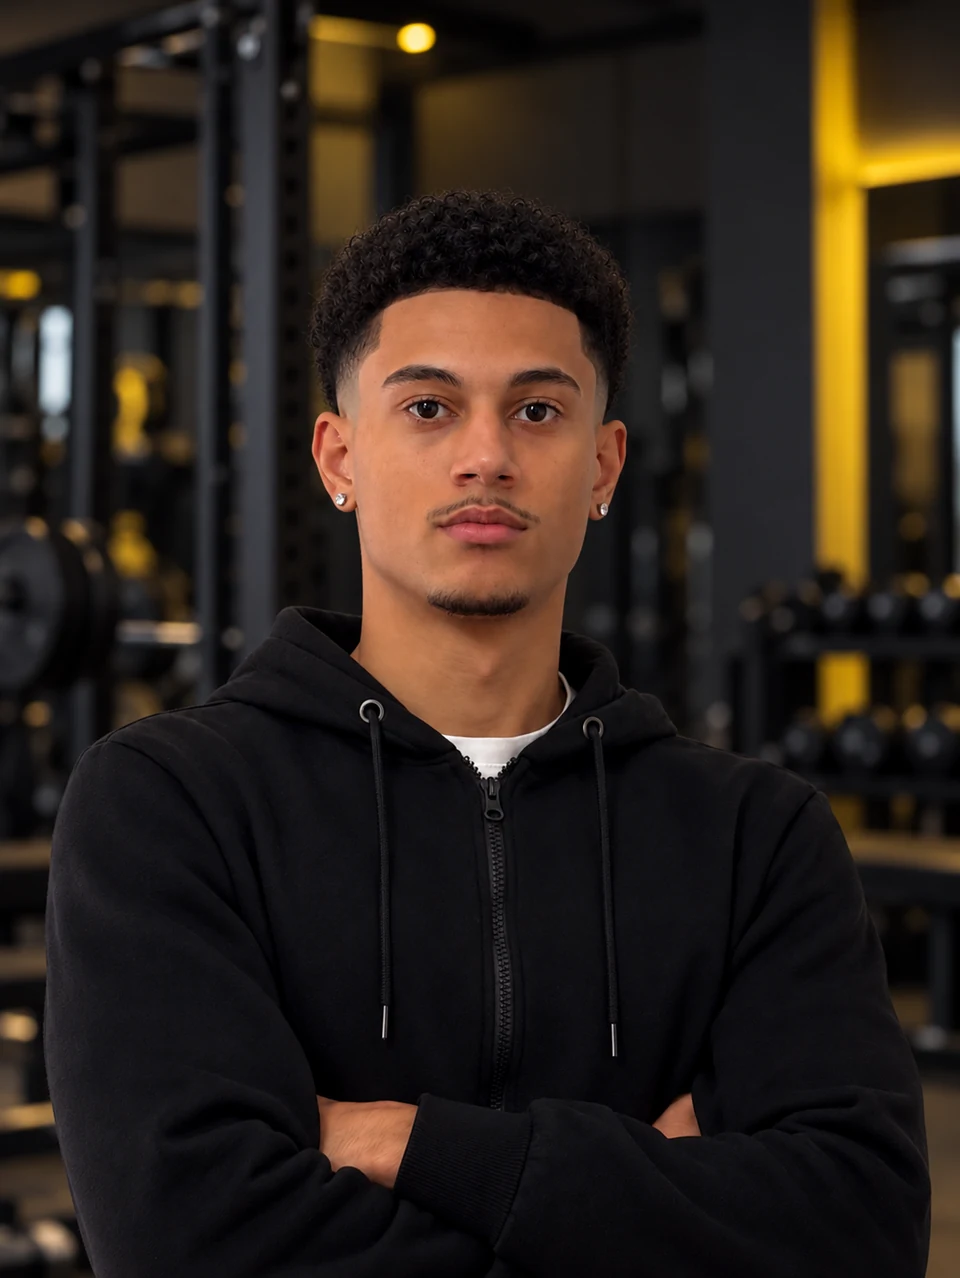
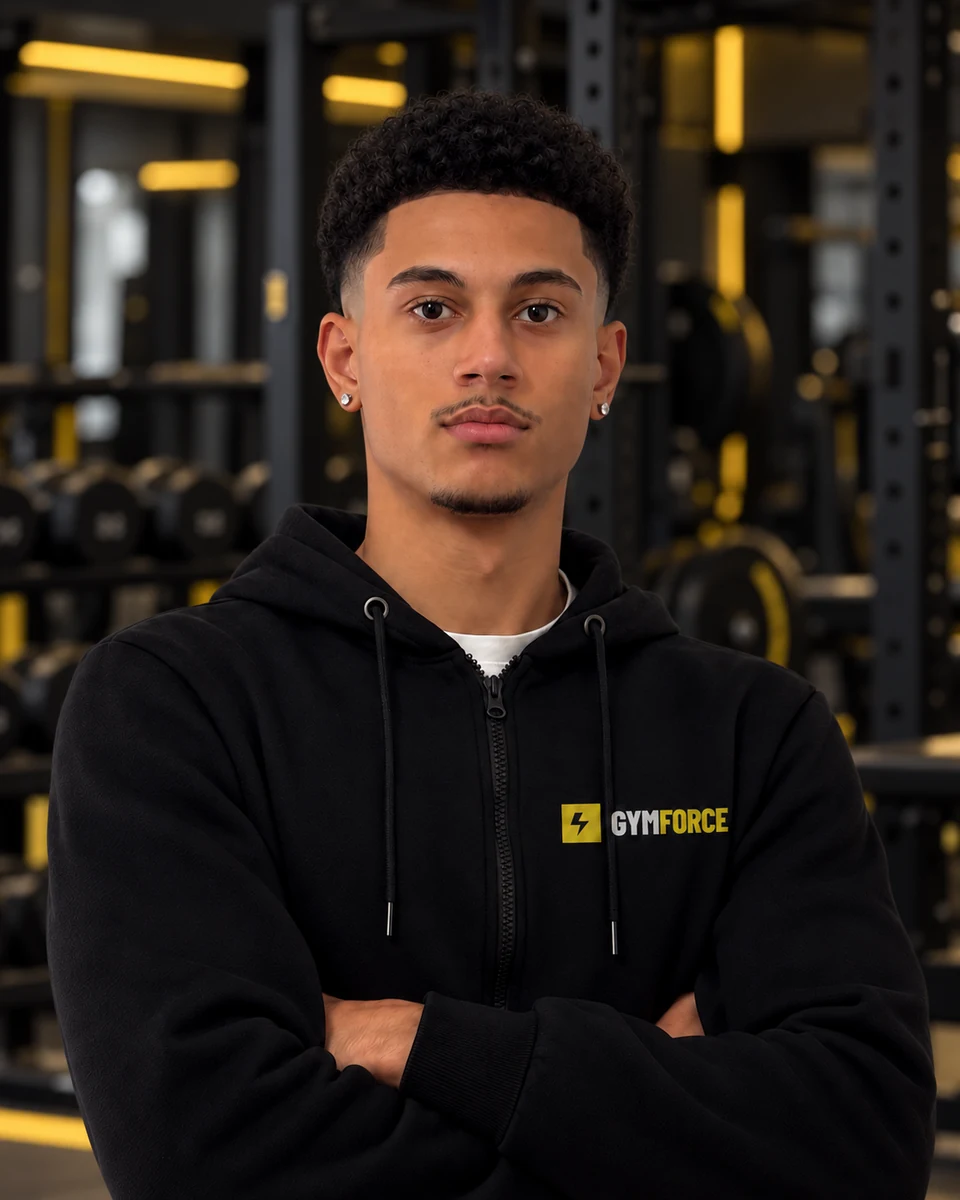
Sustituye el retrato de Álvaro por la nueva foto con logotipo

diff --git a/index.html b/index.html
@@ -545,14 +545,14 @@
           </div>
           <div class="coach-grid">
             <article class="coach-card">
-              <div class="coach-photo" style="--portrait-position: center 24%">
+              <div class="coach-photo" style="--portrait-position: center top">
                 <img
                   src="img/personas/alvaro.webp"
                   data-photo-slot="alvaro"
                   data-photo-target="img/personas/alvaro.webp"
-                  alt="Álvaro con sudadera negra y brazos cruzados, con fondo de gimnasio editado"
+                  alt="Álvaro con sudadera Gym Force y brazos cruzados, con fondo de gimnasio editado"
                   width="960"
-                  height="1278"
+                  height="1200"
                   loading="lazy"
                 />
               </div>

diff --git a/entrenadores.html b/entrenadores.html
@@ -81,14 +81,14 @@
           </p>
           <div class="coach-grid">
             <article class="coach-card">
-              <div class="coach-photo" style="--portrait-position: center 24%">
+              <div class="coach-photo" style="--portrait-position: center top">
                 <img
                   src="img/personas/alvaro.webp"
                   data-photo-slot="alvaro"
                   data-photo-target="img/personas/alvaro.webp"
-                  alt="Álvaro con sudadera negra y brazos cruzados, con fondo de gimnasio editado"
+                  alt="Álvaro con sudadera Gym Force y brazos cruzados, con fondo de gimnasio editado"
                   width="960"
-                  height="1278"
+                  height="1200"
                   loading="lazy"
                 />
               </div>

diff --git a/img/personas/README.md b/img/personas/README.md
@@ -22,9 +22,13 @@ Los atributos `data-photo-slot` identifican las posiciones y `data-photo-target`
 
 1. Conservar los originales y los rostros. Editar únicamente los fondos según lo solicitado, sin inventar rasgos físicos ni cambiar ropa, postura o complexión.
 2. Optimizar en WebP y guardar aquí las fotografías reales. Los retratos deben ser verticales y dejar margen sobre la cabeza; la foto de Alex debe permitir un hero horizontal con espacio para el texto a la izquierda.
-3. En ambas tarjetas de cada entrenador, cambiar `src`, dimensiones intrínsecas y texto alternativo. Quitar `data-placeholder-panel` del contenedor y su etiqueta «Fotografía provisional». La imagen real se muestra al 100%, con `object-fit: cover`. Ajustar `--portrait-position` por fotografía cuando haga falta. Álvaro utiliza `center 24%`; Sofía y Deiby, `center top`.
+3. En ambas tarjetas de cada entrenador, cambiar `src`, dimensiones intrínsecas y texto alternativo. Quitar `data-placeholder-panel` del contenedor y su etiqueta «Fotografía provisional». La imagen real se muestra al 100%, con `object-fit: cover`. Ajustar `--portrait-position` por fotografía cuando haga falta. Los tres retratos utilizan `center top`.
 4. Para Alex, actualizar `src` del hero, `srcset` móvil y la precarga correspondiente. Quitar `data-photo-placeholder` de `.hero-picture` cuando la foto real esté integrada. No tocar la imagen ni la etiqueta de THE TRAINING FLOOR.
 5. Actualizar las notas de integración y procedencia de las imágenes. Las biografías y especialidades siguen siendo provisionales hasta confirmación del usuario.
 6. Comprobar rostros, encuadre, proporciones, carga y tarjetas equilibradas en móvil, tablet y escritorio; actualizar las pruebas de las imágenes pendientes.
 
 La integración total continúa pendiente de la fotografía de Alex. Por petición del usuario, se entrega un ZIP de revisión con los tres retratos integrados. La portada conserva su imagen provisional. No es todavía la entrega definitiva con la foto de Alex.
+
+## Nueva fotografía de Álvaro
+
+Se ha sustituido la primera foto por la nueva versión facilitada por el usuario, que incorpora el logotipo Gym Force en la sudadera. Se utiliza esta nueva fotografía como referencia para la edición del fondo y se conserva el mismo destino `alvaro.webp`, actualizado en ambas tarjetas. El encuadre superior se ajusta al nuevo original. Las fotografías de Sofía y Deiby y la portada provisional de Alex se mantienen.
